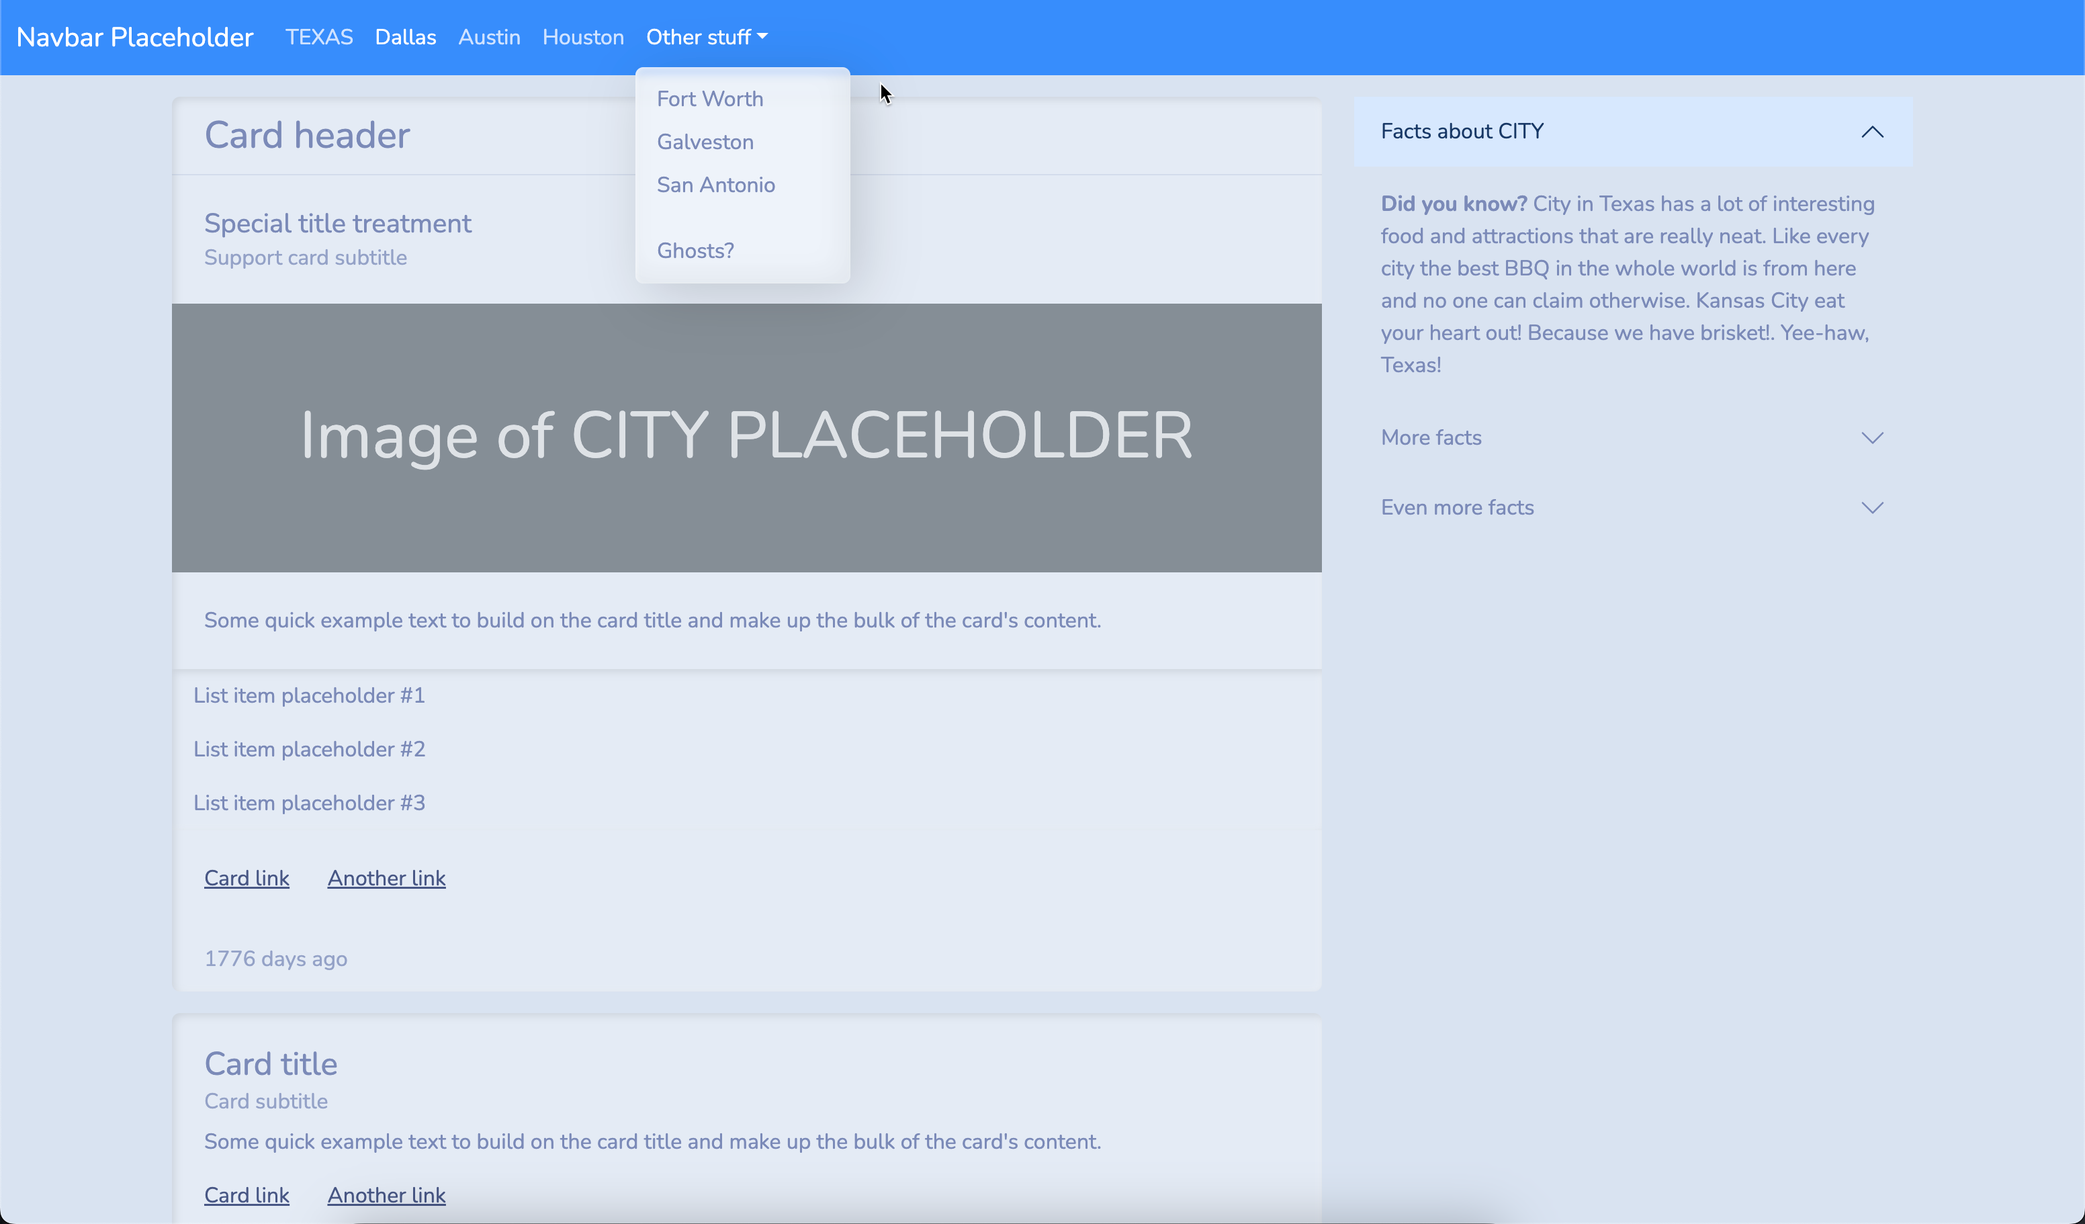
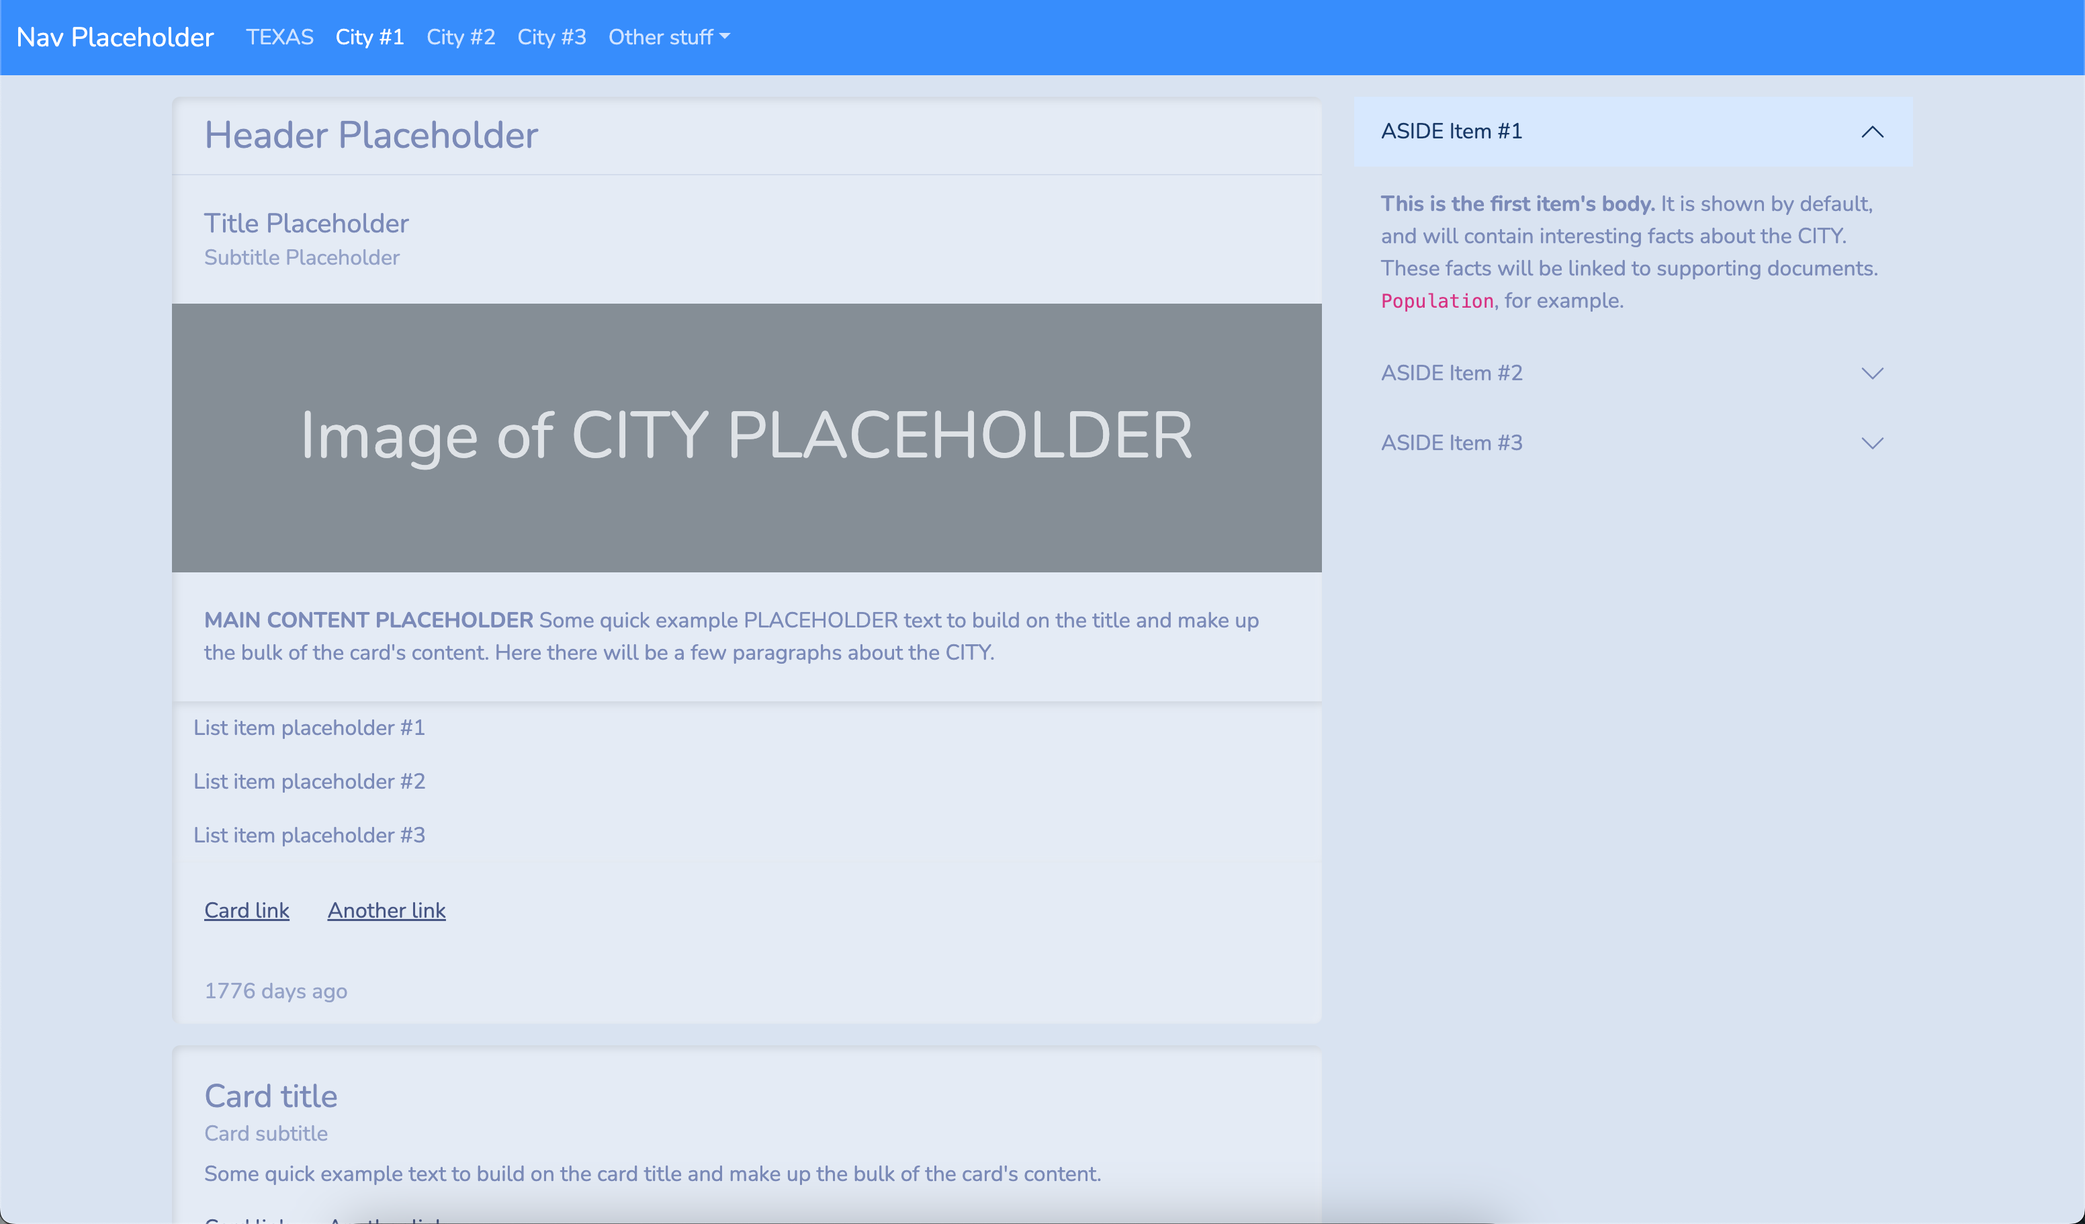
Changed days ago from 1776 to 1845

diff --git a/index.html b/index.html
@@ -12,7 +12,7 @@
             data-bs-theme="dark"
         >
             <div class="container-fluid">
-                <a class="navbar-brand" href="#">Navbar Placeholder</a>
+                <a class="navbar-brand" href="#">Nav Placeholder</a>
                 <button
                     class="navbar-toggler"
                     type="button"
@@ -34,14 +34,14 @@
                         </li>
                         <li class="nav-item">
                             <a class="nav-link" href="./city-dallas.html"
-                                >Dallas</a
+                                >City #1</a
                             >
                         </li>
                         <li class="nav-item">
-                            <a class="nav-link" href="#">Austin</a>
+                            <a class="nav-link" href="#">City #2</a>
                         </li>
                         <li class="nav-item">
-                            <a class="nav-link" href="#">Houston</a>
+                            <a class="nav-link" href="#">City #3</a>
                         </li>
                         <li class="nav-item dropdown">
                             <a
@@ -54,13 +54,11 @@
                                 >Other stuff</a
                             >
                             <div class="dropdown-menu">
-                                <a class="dropdown-item" href="#">Fort Worth</a>
-                                <a class="dropdown-item" href="#">Galveston</a>
-                                <a class="dropdown-item" href="#"
-                                    >San Antonio</a
-                                >
+                                <a class="dropdown-item" href="#">City #4</a>
+                                <a class="dropdown-item" href="#">City #5</a>
+                                <a class="dropdown-item" href="#">City #6</a>
                                 <div class="dropdown-divider"></div>
-                                <a class="dropdown-item" href="#">Ghosts?</a>
+                                <a class="dropdown-item" href="#">More?</a>
                             </div>
                         </li>
                     </ul>
@@ -71,11 +69,11 @@
             <div class="row">
                 <div class="col-8">
                     <div class="card mb-3">
-                        <h3 class="card-header">Card header</h3>
+                        <h3 class="card-header">Header Placeholder</h3>
                         <div class="card-body">
-                            <h5 class="card-title">Special title treatment</h5>
+                            <h5 class="card-title">Title Placeholder</h5>
                             <h6 class="card-subtitle text-muted">
-                                Support card subtitle
+                                Subtitle Placeholder
                             </h6>
                         </div>
                         <svg
@@ -83,7 +81,7 @@
                             class="d-block user-select-none"
                             width="100%"
                             height="200"
-                            aria-label="Placeholder: Image of Texas"
+                            aria-label="Placeholder: Image of Texas Placeholder"
                             focusable="false"
                             role="img"
                             preserveAspectRatio="xMidYMid slice"
@@ -96,14 +94,16 @@
                                 fill="#868e96"
                             ></rect>
                             <text x="50%" y="50%" fill="#dee2e6" dy=".3em">
-                                Image of Texas
+                                Image of Texas PLACEHOLDER
                             </text>
                         </svg>
                         <div class="card-body">
                             <p class="card-text">
-                                Some quick example text to build on the card
+                                <strong>MAIN CONTENT PLACEHOLDER</strong> Some
+                                quick example PLACEHOLDER text to build on the
                                 title and make up the bulk of the card's
-                                content.
+                                content. Here there will be a few paragraphs
+                                about the state.
                             </p>
                         </div>
                         <ul class="list-group list-group-flush">
@@ -121,7 +121,7 @@
                             <a href="#" class="card-link">Card link</a>
                             <a href="#" class="card-link">Another link</a>
                         </div>
-                        <div class="card-footer text-muted">1776 days ago</div>
+                        <div class="card-footer text-muted">1845 days ago</div>
                     </div>
                     <div class="card">
                         <div class="card-body">
@@ -144,36 +144,31 @@
                         <div class="accordion-item">
                             <h2 class="accordion-header" id="headingOne">
                                 <button
-                                    class="accordion-button collapsed"
+                                    class="accordion-button"
                                     type="button"
                                     data-bs-toggle="collapse"
                                     data-bs-target="#collapseOne"
-                                    aria-expanded="false"
+                                    aria-expanded="true"
                                     aria-controls="collapseOne"
                                 >
-                                    Facts about Texas
+                                    ASIDE Item #1
                                 </button>
                             </h2>
                             <div
                                 id="collapseOne"
-                                class="accordion-collapse collapse"
+                                class="accordion-collapse collapse show"
                                 aria-labelledby="headingOne"
                                 data-bs-parent="#accordionExample"
-                                style=""
                             >
                                 <div class="accordion-body">
-                                    <strong>Did you know?</strong>
-                                    There will be interesting facts here that we
-                                    will be able to reference and expand and
-                                    collapse at our leisure and it will be super
-                                    cool and there will be a few things to read
-                                    that won't matter becuase this state is dumb
-                                    and hot and never cools off until it gets
-                                    too cold to survive and I want to make a lot
-                                    of money so that I can leave and live on a
-                                    beach that never experiences any sort of
-                                    extreme weather and only has delicious
-                                    drinks and food. Yee-haw, Texas!
+                                    <strong
+                                        >This is the first item's body.</strong
+                                    >
+                                    It is shown by default, and will contain
+                                    interesting facts about the state. These
+                                    facts will be linked to supporting
+                                    documents.
+                                    <code>Population</code>, for example.
                                 </div>
                             </div>
                         </div>
@@ -187,7 +182,7 @@
                                     aria-expanded="false"
                                     aria-controls="collapseTwo"
                                 >
-                                    More facts
+                                    ASIDE Item #2
                                 </button>
                             </h2>
                             <div
@@ -195,10 +190,12 @@
                                 class="accordion-collapse collapse"
                                 aria-labelledby="headingTwo"
                                 data-bs-parent="#accordionExample"
-                                style=""
                             >
                                 <div class="accordion-body">
-                                    <strong>Even more facts</strong>
+                                    <strong
+                                        >This is the second item's accordion
+                                        body.</strong
+                                    >
                                     It is hidden by default, until the collapse
                                     plugin adds the appropriate classes that we
                                     use to style each element. These classes
@@ -223,7 +220,7 @@
                                     aria-expanded="false"
                                     aria-controls="collapseThree"
                                 >
-                                    Even more facts
+                                    ASIDE Item #3
                                 </button>
                             </h2>
                             <div
@@ -231,7 +228,6 @@
                                 class="accordion-collapse collapse"
                                 aria-labelledby="headingThree"
                                 data-bs-parent="#accordionExample"
-                                style=""
                             >
                                 <div class="accordion-body">
                                     <strong

diff --git a/city-dallas.html b/city-dallas.html
@@ -12,7 +12,7 @@
             data-bs-theme="dark"
         >
             <div class="container-fluid">
-                <a class="navbar-brand" href="#">Navbar Placeholder</a>
+                <a class="navbar-brand" href="#">Nav Placeholder</a>
                 <button
                     class="navbar-toggler"
                     type="button"
@@ -31,15 +31,15 @@
                         </li>
                         <li class="nav-item">
                             <a class="nav-link active" href="#"
-                                >Dallas
+                                >City #1
                                 <span class="visually-hidden">(current)</span>
                             </a>
                         </li>
                         <li class="nav-item">
-                            <a class="nav-link" href="#">Austin</a>
+                            <a class="nav-link" href="#">City #2</a>
                         </li>
                         <li class="nav-item">
-                            <a class="nav-link" href="#">Houston</a>
+                            <a class="nav-link" href="#">City #3</a>
                         </li>
                         <li class="nav-item dropdown">
                             <a
@@ -52,13 +52,11 @@
                                 >Other stuff</a
                             >
                             <div class="dropdown-menu">
-                                <a class="dropdown-item" href="#">Fort Worth</a>
-                                <a class="dropdown-item" href="#">Galveston</a>
-                                <a class="dropdown-item" href="#"
-                                    >San Antonio</a
-                                >
+                                <a class="dropdown-item" href="#">City #4</a>
+                                <a class="dropdown-item" href="#">City #5</a>
+                                <a class="dropdown-item" href="#">City #6</a>
                                 <div class="dropdown-divider"></div>
-                                <a class="dropdown-item" href="#">Ghosts?</a>
+                                <a class="dropdown-item" href="#">More?</a>
                             </div>
                         </li>
                     </ul>
@@ -69,11 +67,11 @@
             <div class="row">
                 <div class="col-8">
                     <div class="card mb-3">
-                        <h3 class="card-header">Card header</h3>
+                        <h3 class="card-header">Header Placeholder</h3>
                         <div class="card-body">
-                            <h5 class="card-title">Special title treatment</h5>
+                            <h5 class="card-title">Title Placeholder</h5>
                             <h6 class="card-subtitle text-muted">
-                                Support card subtitle
+                                Subtitle Placeholder
                             </h6>
                         </div>
                         <svg
@@ -99,9 +97,11 @@
                         </svg>
                         <div class="card-body">
                             <p class="card-text">
-                                Some quick example text to build on the card
+                                <strong>MAIN CONTENT PLACEHOLDER</strong> Some
+                                quick example PLACEHOLDER text to build on the
                                 title and make up the bulk of the card's
-                                content.
+                                content. Here there will be a few paragraphs
+                                about the CITY.
                             </p>
                         </div>
                         <ul class="list-group list-group-flush">
@@ -119,7 +119,7 @@
                             <a href="#" class="card-link">Card link</a>
                             <a href="#" class="card-link">Another link</a>
                         </div>
-                        <div class="card-footer text-muted">1776 days ago</div>
+                        <div class="card-footer text-muted">1845 days ago</div>
                     </div>
                     <div class="card">
                         <div class="card-body">
@@ -142,31 +142,31 @@
                         <div class="accordion-item">
                             <h2 class="accordion-header" id="headingOne">
                                 <button
-                                    class="accordion-button collapsed"
+                                    class="accordion-button"
                                     type="button"
                                     data-bs-toggle="collapse"
                                     data-bs-target="#collapseOne"
-                                    aria-expanded="false"
+                                    aria-expanded="true"
                                     aria-controls="collapseOne"
                                 >
-                                    Facts about CITY
+                                    ASIDE Item #1
                                 </button>
                             </h2>
                             <div
                                 id="collapseOne"
-                                class="accordion-collapse collapse"
+                                class="accordion-collapse collapse show"
                                 aria-labelledby="headingOne"
                                 data-bs-parent="#accordionExample"
-                                style=""
                             >
                                 <div class="accordion-body">
-                                    <strong>Did you know?</strong>
-                                    City in Texas has a lot of interesting food
-                                    and attractions that are really neat. Like
-                                    every city the best BBQ in the whole world
-                                    is from here and no one can claim otherwise.
-                                    Kansas City eat your heart out! Because we
-                                    have brisket!. Yee-haw, Texas!
+                                    <strong
+                                        >This is the first item's body.</strong
+                                    >
+                                    It is shown by default, and will contain
+                                    interesting facts about the CITY. These
+                                    facts will be linked to supporting
+                                    documents.
+                                    <code>Population</code>, for example.
                                 </div>
                             </div>
                         </div>
@@ -180,7 +180,7 @@
                                     aria-expanded="false"
                                     aria-controls="collapseTwo"
                                 >
-                                    More facts
+                                    ASIDE Item #2
                                 </button>
                             </h2>
                             <div
@@ -188,10 +188,12 @@
                                 class="accordion-collapse collapse"
                                 aria-labelledby="headingTwo"
                                 data-bs-parent="#accordionExample"
-                                style=""
                             >
                                 <div class="accordion-body">
-                                    <strong>Even more facts</strong>
+                                    <strong
+                                        >This is the second item's accordion
+                                        body.</strong
+                                    >
                                     It is hidden by default, until the collapse
                                     plugin adds the appropriate classes that we
                                     use to style each element. These classes
@@ -216,7 +218,7 @@
                                     aria-expanded="false"
                                     aria-controls="collapseThree"
                                 >
-                                    Even more facts
+                                    ASIDE Item #3
                                 </button>
                             </h2>
                             <div
@@ -224,7 +226,6 @@
                                 class="accordion-collapse collapse"
                                 aria-labelledby="headingThree"
                                 data-bs-parent="#accordionExample"
-                                style=""
                             >
                                 <div class="accordion-body">
                                     <strong
